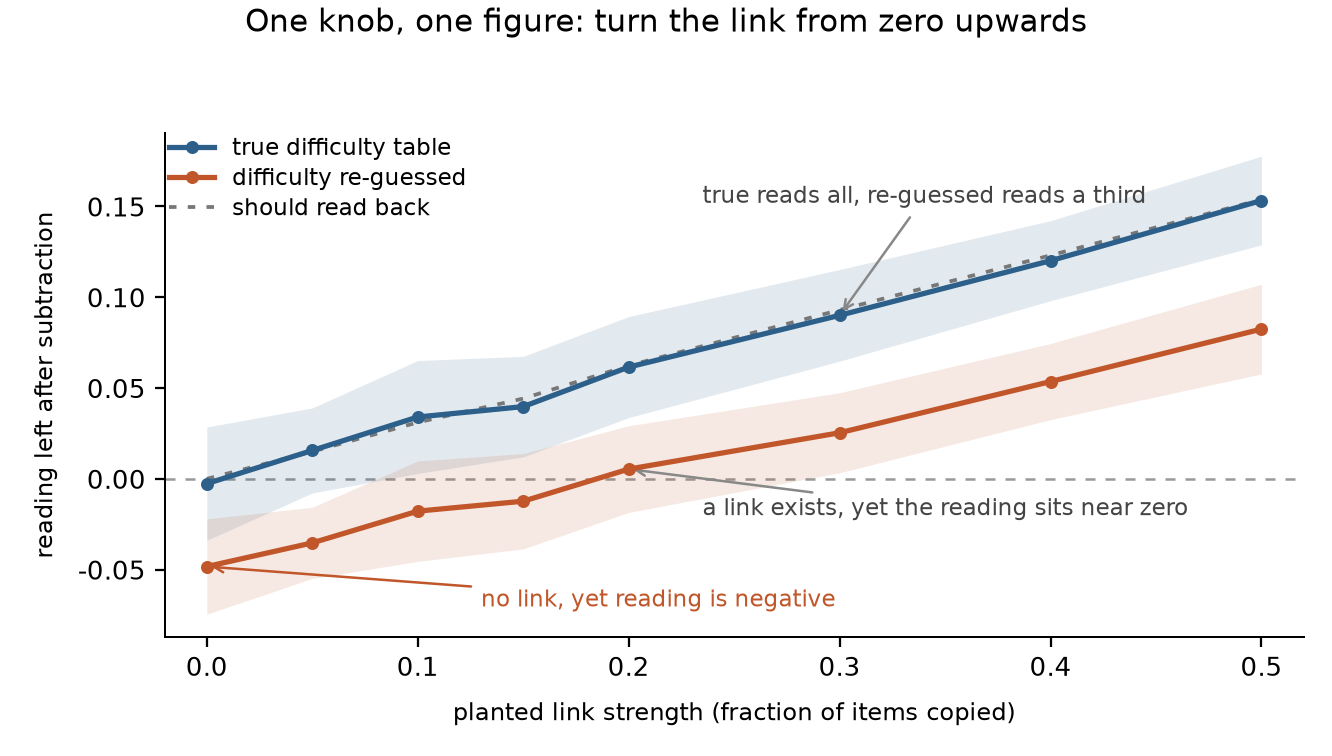
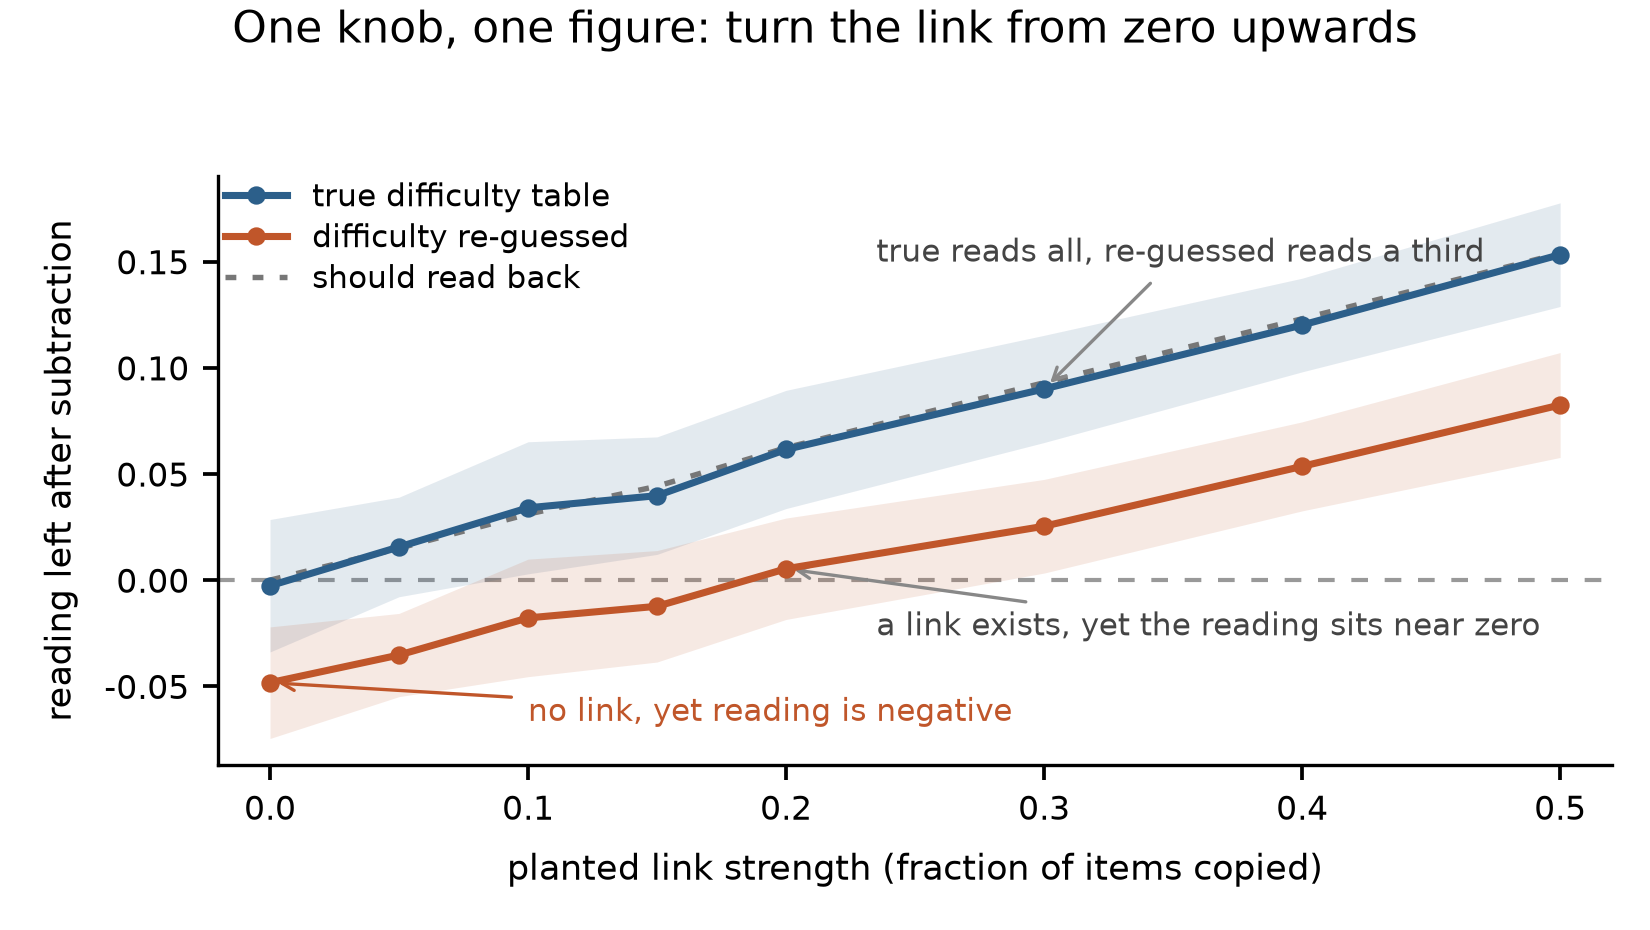
Resize Figure 1 to text width

diff --git a/one_knob.py b/one_knob.py
@@ -32,7 +32,7 @@ plt.rcParams.update({
     "font.family": "sans-serif",
     "font.sans-serif": ["DejaVu Sans"],
     "axes.unicode_minus": False,
-    "font.size": 10.5,
+    "font.size": 8.5,
     "axes.linewidth": 0.8,
     "pdf.fonttype": 42,
 })
@@ -96,49 +96,49 @@ def draw(rows, stem="fig_one_knob", outdir=HERE):
     yg = np.array([r["pg"] for r in rows])
     st = np.array([r["pts"] for r in rows])
     sg = np.array([r["pgs"] for r in rows])
-    fig, ax = plt.subplots(1, 1, figsize=(7.4, 4.2))
+    fig, ax = plt.subplots(1, 1, figsize=(5.5, 3.1))
 
     ax.axhline(0.0, color="#999999", lw=1.0, ls=(0, (4, 4)), zorder=1)
     ax.fill_between(x, yt - st, yt + st, color="#2c5f8a", alpha=0.13,
                     linewidth=0, zorder=2)
     ax.fill_between(x, yg - sg, yg + sg, color="#c0562a", alpha=0.13,
                     linewidth=0, zorder=2)
-    ax.plot(x, yt, color="#2c5f8a", lw=2.1, marker="o", ms=4.2, zorder=4,
+    ax.plot(x, yt, color="#2c5f8a", lw=1.7, marker="o", ms=3.4, zorder=4,
             label="true difficulty table")
-    ax.plot(x, yg, color="#c0562a", lw=2.1, marker="o", ms=4.2, zorder=4,
+    ax.plot(x, yg, color="#c0562a", lw=1.7, marker="o", ms=3.4, zorder=4,
             label="difficulty re-guessed")
-    ax.plot(x, [r["should"] for r in rows], color="#777777", lw=1.5,
+    ax.plot(x, [r["should"] for r in rows], color="#777777", lw=1.3,
             ls=(0, (2, 3)), zorder=3, label="should read back")
 
     ax.annotate("no link, yet reading is negative",
-                xy=(0, rows[0]["pg"]), xytext=(0.13, rows[0]["pg"] - 0.022),
-                fontsize=9, color="#c0562a",
-                arrowprops=dict(arrowstyle="->", color="#c0562a", lw=1.0))
+                xy=(0, rows[0]["pg"]), xytext=(0.10, rows[0]["pg"] - 0.018),
+                fontsize=7.5, color="#c0562a",
+                arrowprops=dict(arrowstyle="->", color="#c0562a", lw=0.8))
     ax.annotate("a link exists, yet the reading sits near zero",
-                xy=(0.20, rows[4]["pg"]), xytext=(0.235, -0.020),
-                fontsize=9, color="#444444",
-                arrowprops=dict(arrowstyle="->", color="#888888", lw=1.0))
+                xy=(0.20, rows[4]["pg"]), xytext=(0.235, -0.026),
+                fontsize=7.5, color="#444444",
+                arrowprops=dict(arrowstyle="->", color="#888888", lw=0.8))
     ax.annotate("true reads all, re-guessed reads a third",
-                xy=(0.30, rows[5]["pt"]), xytext=(0.235, 0.152),
-                fontsize=9, color="#444444",
-                arrowprops=dict(arrowstyle="->", color="#888888", lw=1.0))
+                xy=(0.30, rows[5]["pt"]), xytext=(0.235, 0.150),
+                fontsize=7.5, color="#444444",
+                arrowprops=dict(arrowstyle="->", color="#888888", lw=0.8))
 
     ax.set_xlim(-0.02, 0.52)
     ax.set_xlabel("planted link strength (fraction of items copied)",
-                  fontsize=9.5, labelpad=8)
-    ax.set_ylabel("reading left after subtraction", fontsize=9.5, labelpad=8)
-    ax.tick_params(length=4, width=0.9)
+                  fontsize=8.5, labelpad=6)
+    ax.set_ylabel("reading left after subtraction", fontsize=8.5, labelpad=6)
+    ax.tick_params(length=3.5, width=0.9, labelsize=8)
     ax.spines["top"].set_visible(False)
     ax.spines["right"].set_visible(False)
-    ax.legend(loc="upper left", frameon=False, fontsize=9,
-              labelspacing=0.34, borderpad=0, borderaxespad=0.2)
+    ax.legend(loc="upper left", frameon=False, fontsize=7.5,
+              labelspacing=0.3, borderpad=0, borderaxespad=0.2)
 
     fig.suptitle("One knob, one figure: turn the link from zero upwards",
-                 fontsize=12.5, y=0.99)
+                 fontsize=10.5, y=0.99)
     fig.tight_layout(rect=(0, 0, 1, 0.94))
     for ext in (".png", ".pdf"):
         p = Path(outdir) / (stem + ext)
-        fig.savefig(p, dpi=180, facecolor="white")
+        fig.savefig(p, dpi=300, facecolor="white")
         print("wrote", p)
 
 
